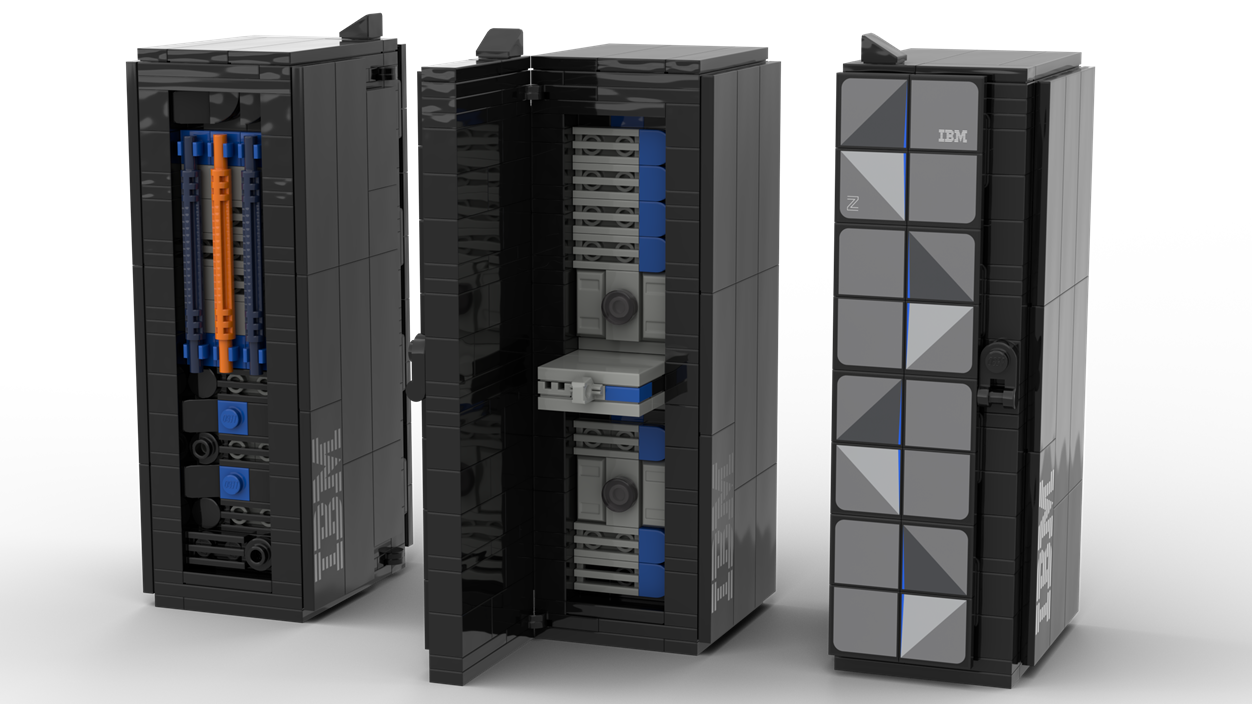
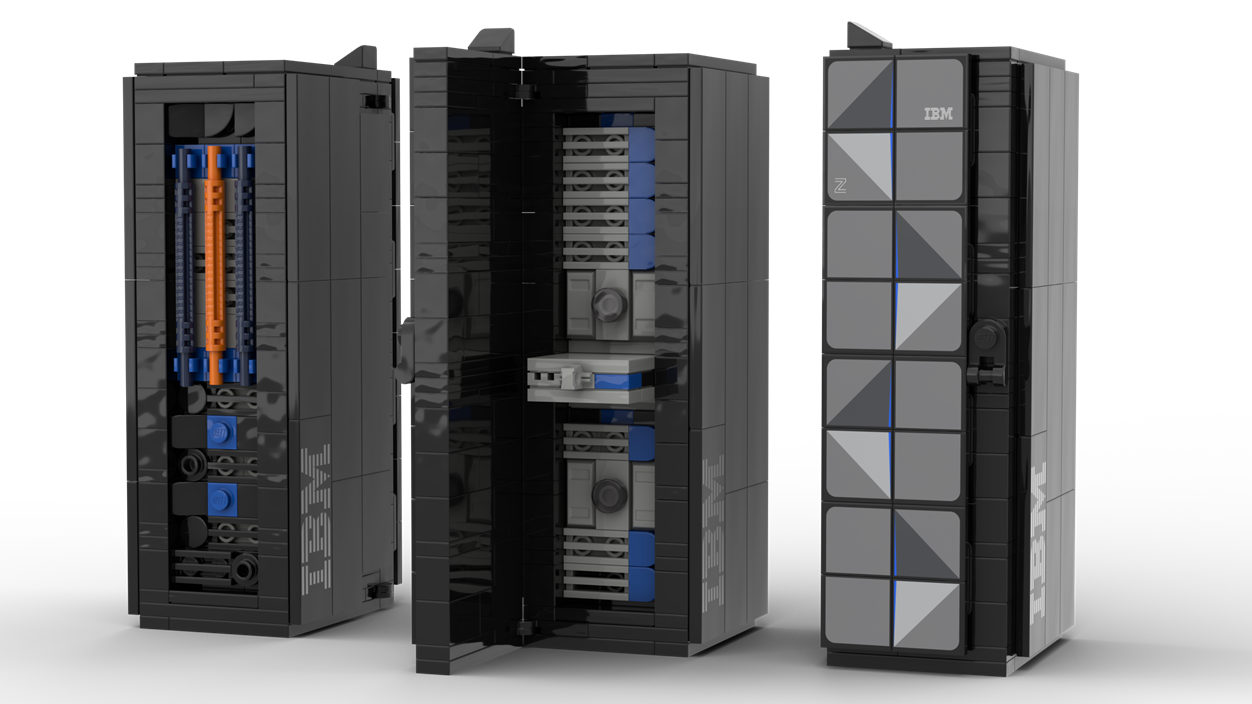
Add files via upload
z17

diff --git a/bricks/index.html b/bricks/index.html
@@ -91,6 +91,7 @@ a:hover { text-decoration: underline; }
                 <option value="#ibmz10ec">IBM z10 Enterprise Class Mainframe server</option>
                 <option value="#ibmz114">IBM z114 Mainframe Server</option>
                 <option value="#ibmz16">IBM z16 and IBM LinuxONE 4 Mainframe server</option>
+				<option value="#ibmz17">IBM z17 and IBM LinuxONE 5 Mainframe server</option>
                 <option value="#ibmzbc12">IBM zBC12 Mainframe Server</option>
 				<option value="#intellakefield">Intel Lakefield Processor</option>
 				<option value="#ciscoironport">Ironport D.I.Y. Email Security Kit</option>
@@ -345,7 +346,22 @@ a:hover { text-decoration: underline; }
 			Special thanks to Digital M in obtaining the assembly manual. <br><br>
 			</font> </div>			
 
-
+            <font size="-1"><br>
+            <span id="ibmz17" style="font-weight: bold;">IBM z17 and IBM LinuxONE 5 Mainframe server<br><br>
+            </span></font>
+			
+			<center><img src="bricks_ibm_z17.png" onmouseover="this.src='bricks_ibm_z17.jpg';" onmouseout="this.src='bricks_ibm_z17.png';" width="626" /></center><br>
+			
+            <div style="margin-left: 40px;line-height: 1.3;"><font size="-1">
+			The <a href="https://www.linkedin.com/posts/dongentile_ibmz-infrastructure-support-activity-7316210222832705537-pLrB/" target="_blank">IBM z17 Mainframe server</a> expands AI capabilities with improved on-chip AI accelerator in the Telum II CPU, and introduces the Spyre card for more complex and larger AI models.<br>
+			This Lego set represents a single-frame configuration, featuring a functional opening door and a pull-out processor drawer. The set includes two color accents: blue for the z17 and orange for the LinuxONE variant. It is composed of 273 bricks and released in 2025.<br>
+			The "IBM z17 and IBM LinuxONE 5" Lego set was a promotional gift by IBM, distributed in a <a href="https://drive.google.com/file/d/1OclNEv-BKaiF-jai0HgGMJn8u-StLafE/view?usp=sharing" target="_blank">plastic bag</a> with QR code linking to the building instructions.<br><br>
+			<a href="https://drive.google.com/file/d/1lTHvJMewCEV6AK7IaNtWii0A28EVyOMv/view?usp=sharing" target="_blank"><b>Building instructions</b></a> (scan of the original document)<br>
+			<a href="https://drive.google.com/file/d/1DObicCS4xd0mhih76gwf6t_M0B8XBQil/view?usp=sharing" target="_blank"><b>Bricklist</b></a><br>
+			Sticker: <a href="https://drive.google.com/file/d/1rPaIiHt4Cy1xFRkqYSmmF7ziCt0PzEW2/view?usp=sharing" target="_blank"><b>A4</b></a> or <a href="https://drive.google.com/file/d/14r0r-_GGjtr8Uiv4f5G4ODten4KA8WOw/view?usp=sharing" target="_blank"><b>Letter</b></a> (substitutes original stickers)<br><br>
+			Special thanks to Dani B. and Tamas M. who won a <a href="https://drive.google.com/file/d/14eSD9J2RbO9aFRp5OiJK-qrkbEksO2yy/view?usp=sharing" target="_blank"> z17 Lego set</a> at the <a href="https://conferences.gse.org.uk/2025" target="_blank">GS UK 2025 conference</a>, and made it possible for me to create sticker set and bricklist.<br><br>
+			</font> </div>
+			
 
 			
             <font size="-1"><br>
